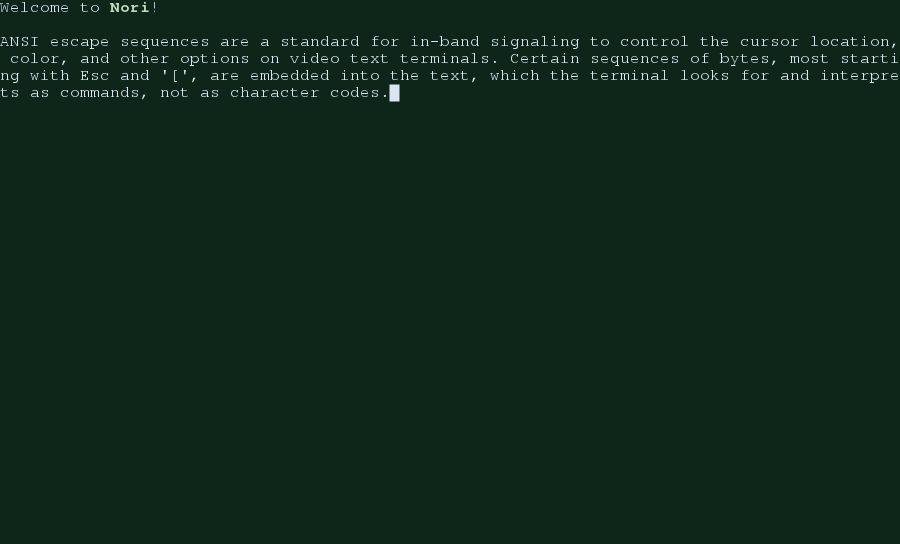
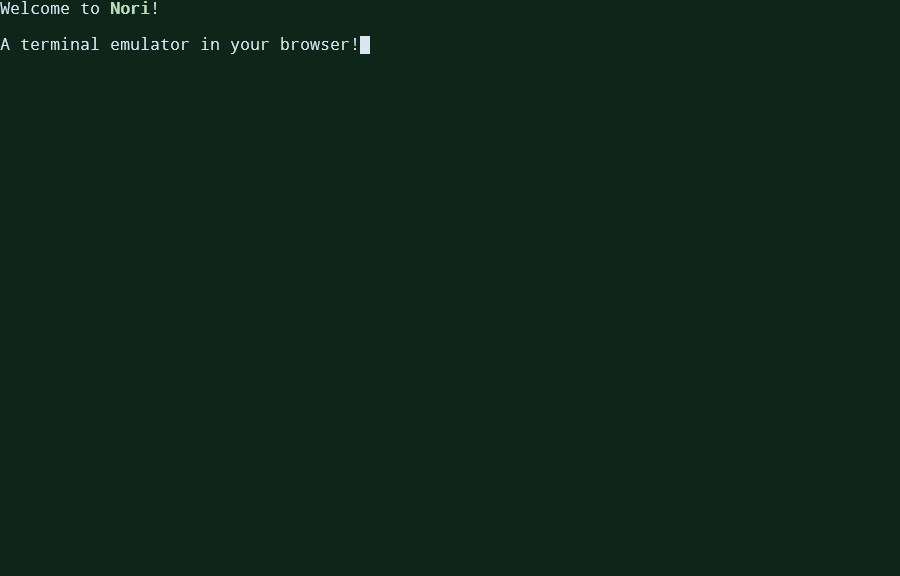
remove private underscore notation; remove 'magic' numbers

Changed region(s): [[0.0, 0.0625, 1.0, 0.1875], [0.0, 0.0, 0.1867, 0.0312]]

diff --git a/NoriTerm.ts b/NoriTerm.ts
@@ -1,50 +1,50 @@
 class NoriTerm {
   public getCanvas(): HTMLCanvasElement {
-    return this.canvas_;
+    return this.canvas;
   }
 
   public clear(): void {
-    this.context_.fillStyle = this.colorBackground_;
-    this.context_.fillRect(0, 0, this.canvas_.width, this.canvas_.height);
+    this.context.fillStyle = this.colorBackground;
+    this.context.fillRect(0, 0, this.canvas.width, this.canvas.height);
   }
 
   public clearLine(): void {
-    this.clearRegion(0, this.cursorPosition_[1], this.columns_, 1);
-    this.moveCursor(0, this.cursorPosition_[1]);
+    this.clearRegion(0, this.cursorPosition[1], this.columns, 1);
+    this.moveCursor(0, this.cursorPosition[1]);
   }
 
   public put(char: string): void {
     const [charw, charh] = this.getBlockSize();
-    const [x, y] = this.cursorPosition_;
+    const [x, y] = this.cursorPosition;
 
-    if (x + 1 >= this.columns_) {
-      this.moveCursor(0, this.cursorPosition_[1] + 1);
+    if (x + 1 >= this.columns) {
+      this.moveCursor(0, this.cursorPosition[1] + 1);
     } else {
-      this.moveCursor(this.cursorPosition_[0] + 1, this.cursorPosition_[1]);
+      this.moveCursor(this.cursorPosition[0] + 1, this.cursorPosition[1]);
     }
 
-    this.context_.font = this.getFont();
-    this.context_.textAlign = "center";
-    this.context_.textBaseline = "middle";
-    this.context_.fillStyle = this.currentColor_;
-    this.context_.fillText(char, x * charw + charw / 2, y * charh + charh / 2);
+    this.context.font = this.getFont();
+    this.context.textAlign = "center";
+    this.context.textBaseline = "middle";
+    this.context.fillStyle = this.currentColor;
+    this.context.fillText(char, x * charw + charw / 2, y * charh + charh / 2);
   }
 
   public remove(): void {
-    this.moveCursor(this.cursorPosition_[0] - 1, this.cursorPosition_[1]);
+    this.moveCursor(this.cursorPosition[0] - 1, this.cursorPosition[1]);
   }
 
   public newLine(): void {
-    this.moveCursor(0, this.cursorPosition_[1] + 1);
+    this.moveCursor(0, this.cursorPosition[1] + 1);
   }
 
   public resetColor(): void {
-    this.currentColor_ = this.colorForeground_;
+    this.currentColor = this.colorForeground;
     this.fontIsBold = false;
   }
 
   public setColor(index: number): void {
-    this.currentColor_ = this.colorPalette_[index - 1];
+    this.currentColor = this.colorPalette[index - 1];
   }
 
   public setBold(): void {
@@ -52,33 +52,33 @@ class NoriTerm {
   }
 
   public getBackgroundColor(): string {
-    return this.colorBackground_;
+    return this.colorBackground;
   }
 
   public moveCursor(x: number, y: number): void {
     const [charw, charh] = this.getBlockSize();
 
-    this.clearRegion.apply(this, this.cursorPosition_);
+    this.clearRegion.apply(this, this.cursorPosition);
 
-    this.cursorPosition_ = [x, y];
+    this.cursorPosition = [x, y];
 
-    this.context_.fillStyle = this.colorCursor_;
-    this.context_.fillRect(
-      this.cursorPosition_[0] * charw - 0.5,
-      this.cursorPosition_[1] * charh - 0.5,
+    this.context.fillStyle = this.colorCursor;
+    this.context.fillRect(
+      this.cursorPosition[0] * charw,
+      this.cursorPosition[1] * charh,
       charw,
       charh
     );
-    this.context_.fill();
+    this.context.fill();
   }
 
   constructor() {
-    this.context_.font = this.getFont();
+    this.context.font = this.getFont();
 
     const [charw, charh] = this.getBlockSize();
 
-    this.canvas_.width = this.columns_ * charw;
-    this.canvas_.height = this.rows_ * charh;
+    this.canvas.width = this.columns * charw;
+    this.canvas.height = this.rows * charh;
 
     this.clear();
     this.moveCursor(0, 0);
@@ -87,40 +87,41 @@ class NoriTerm {
   private clearRegion(x: number, y: number, width: number = 1, height: number = 1): void {
     const [charw, charh] = this.getBlockSize();
 
-    this.context_.fillStyle = this.colorBackground_;
-    this.context_.fillRect(
-      x * charw - 1,
-      y * charh - 1,
-      width * charw + 2,
-      height * charh + 2
+    this.context.fillStyle = this.colorBackground;
+    this.context.fillRect(
+      x * charw,
+      y * charh,
+      width * charw,
+      height * charh
     );
-    this.context_.fill();
+    this.context.fill();
   }
 
   private getBlockSize(): [number, number] {
-    this.context_.font = this.getFont();
-    return [this.context_.measureText('A').width, this.fontSize_ + Math.floor(this.fontSize_ * 0.45)];
+    this.context.font = this.getFont();
+    return [Math.ceil(this.context.measureText('W').width), Math.ceil(this.fontSize * this.fontLineHeight)];
   }
 
   private getFont(): string {
-    return `${this.fontIsBold ? 'bold ' : ''}${this.fontSize_}pt ${this.fontFamily_}`
+    return `${this.fontIsBold ? 'bold ' : ''}${this.fontSize}pt ${this.fontFamily}`
   }
 
-  private canvas_: HTMLCanvasElement = document.createElement('canvas');
-  private context_: CanvasRenderingContext2D = this.canvas_.getContext('2d')!;
+  private canvas: HTMLCanvasElement = document.createElement('canvas');
+  private context: CanvasRenderingContext2D = this.canvas.getContext('2d')!;
 
-  private columns_: number = 90;
-  private rows_: number = 32;
-  private cursorPosition_: [number, number] = [0, 0];
+  private columns: number = 90;
+  private rows: number = 32;
+  private cursorPosition: [number, number] = [0, 0];
 
-  private colorBackground_: string = '#0d2619';
-  private colorForeground_: string = '#d9e6f2';
-  private colorCursor_: string = '#d9e6f2';
-  private colorPalette_: string[] = ['#000000', '#b87a7a', '#7ab87a', '#b8b87a', '#7a7ab8', '#b87ab8', '#7ab8b8', '#d9d9d9', '#262626', '#dbbdbd', '#bddbbd', '#dbdbbd', '#bdbddb', '#dbbddb', '#bddbdb', '#ffffff']
+  private colorBackground: string = '#0d2619';
+  private colorForeground: string = '#d9e6f2';
+  private colorCursor: string = '#d9e6f2';
+  private colorPalette: string[] = ['#000000', '#b87a7a', '#7ab87a', '#b8b87a', '#7a7ab8', '#b87ab8', '#7ab8b8', '#d9d9d9', '#262626', '#dbbdbd', '#bddbbd', '#dbdbbd', '#bdbddb', '#dbbddb', '#bddbdb', '#ffffff']
 
-  private currentColor_: string = this.colorForeground_;
+  private currentColor: string = this.colorForeground;
 
-  private fontSize_: number = 12;
-  private fontFamily_: string = 'Monaco, Courier, monospace';
+  private fontSize: number = 12;
+  private fontLineHeight: number = 1.45;
+  private fontFamily: string = '"Noto Mono", "DejaVu Sans Mono", Monaco, Courier, monospace';
   private fontIsBold: boolean = false;
 }

diff --git a/index.html b/index.html
@@ -34,11 +34,6 @@
     "Nori".split('').forEach(term.put.bind(term));
     term.resetColor();
     term.put("!");
-    
-    term.newLine();
-    term.newLine();
-    "ANSI escape sequences are a standard for in-band signaling to control the cursor location, color, and other options on video text terminals. Certain sequences of bytes, most starting with Esc and '[', are embedded into the text, which the terminal looks for and interprets as commands, not as character codes."
-    .split('').forEach(term.put.bind(term));
 
     document.body.appendChild(term.getCanvas());
     term.getCanvas().style.border = '8px solid ' + term.getBackgroundColor();
@@ -52,6 +47,7 @@
       } else if (event.key.length === 1) {
         term.put(event.key.charAt(0));
       }
+      event.preventDefault();
     });
   </script>
 </body>
